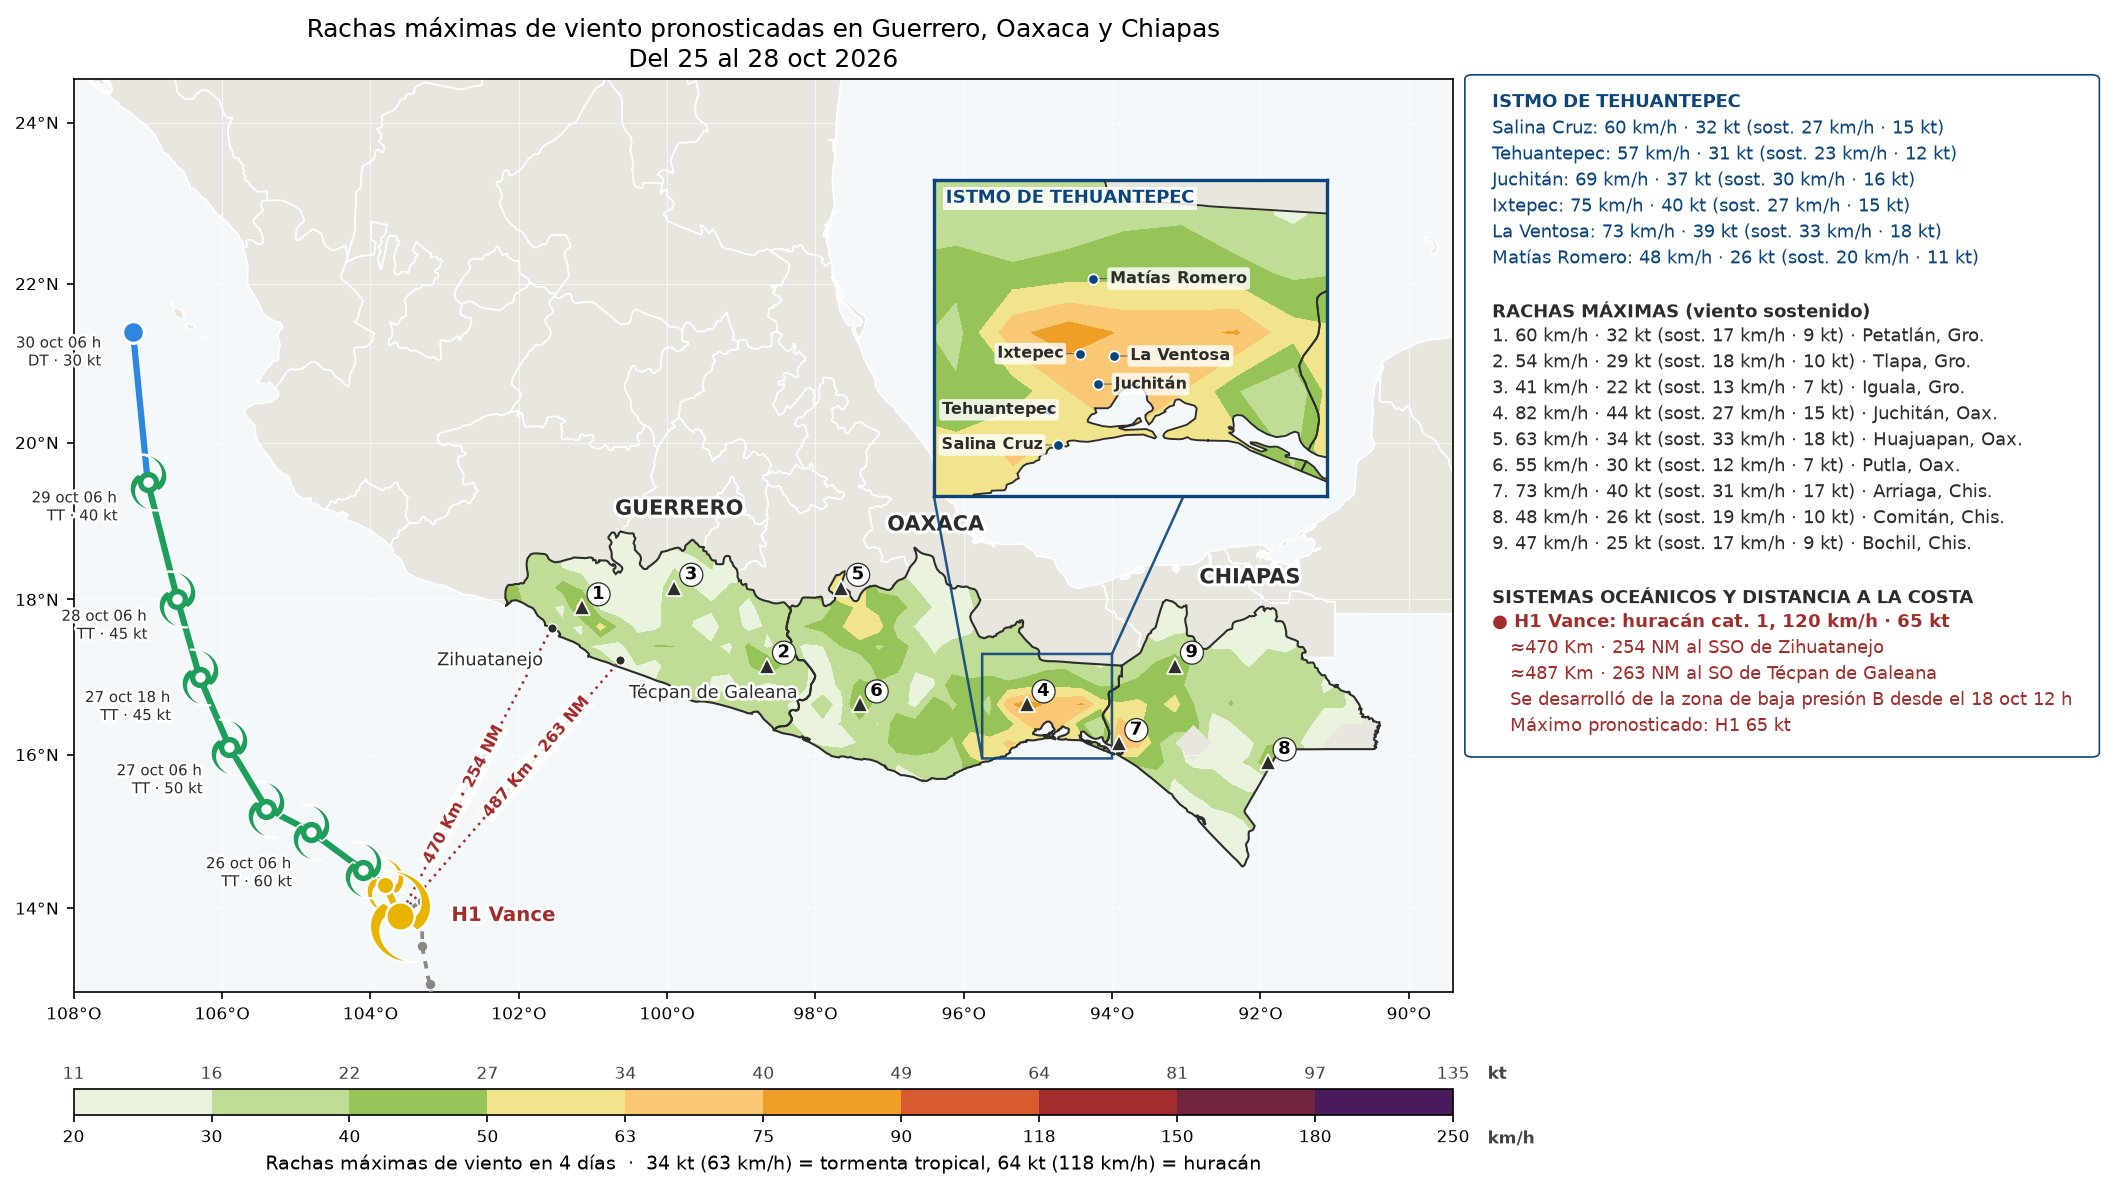
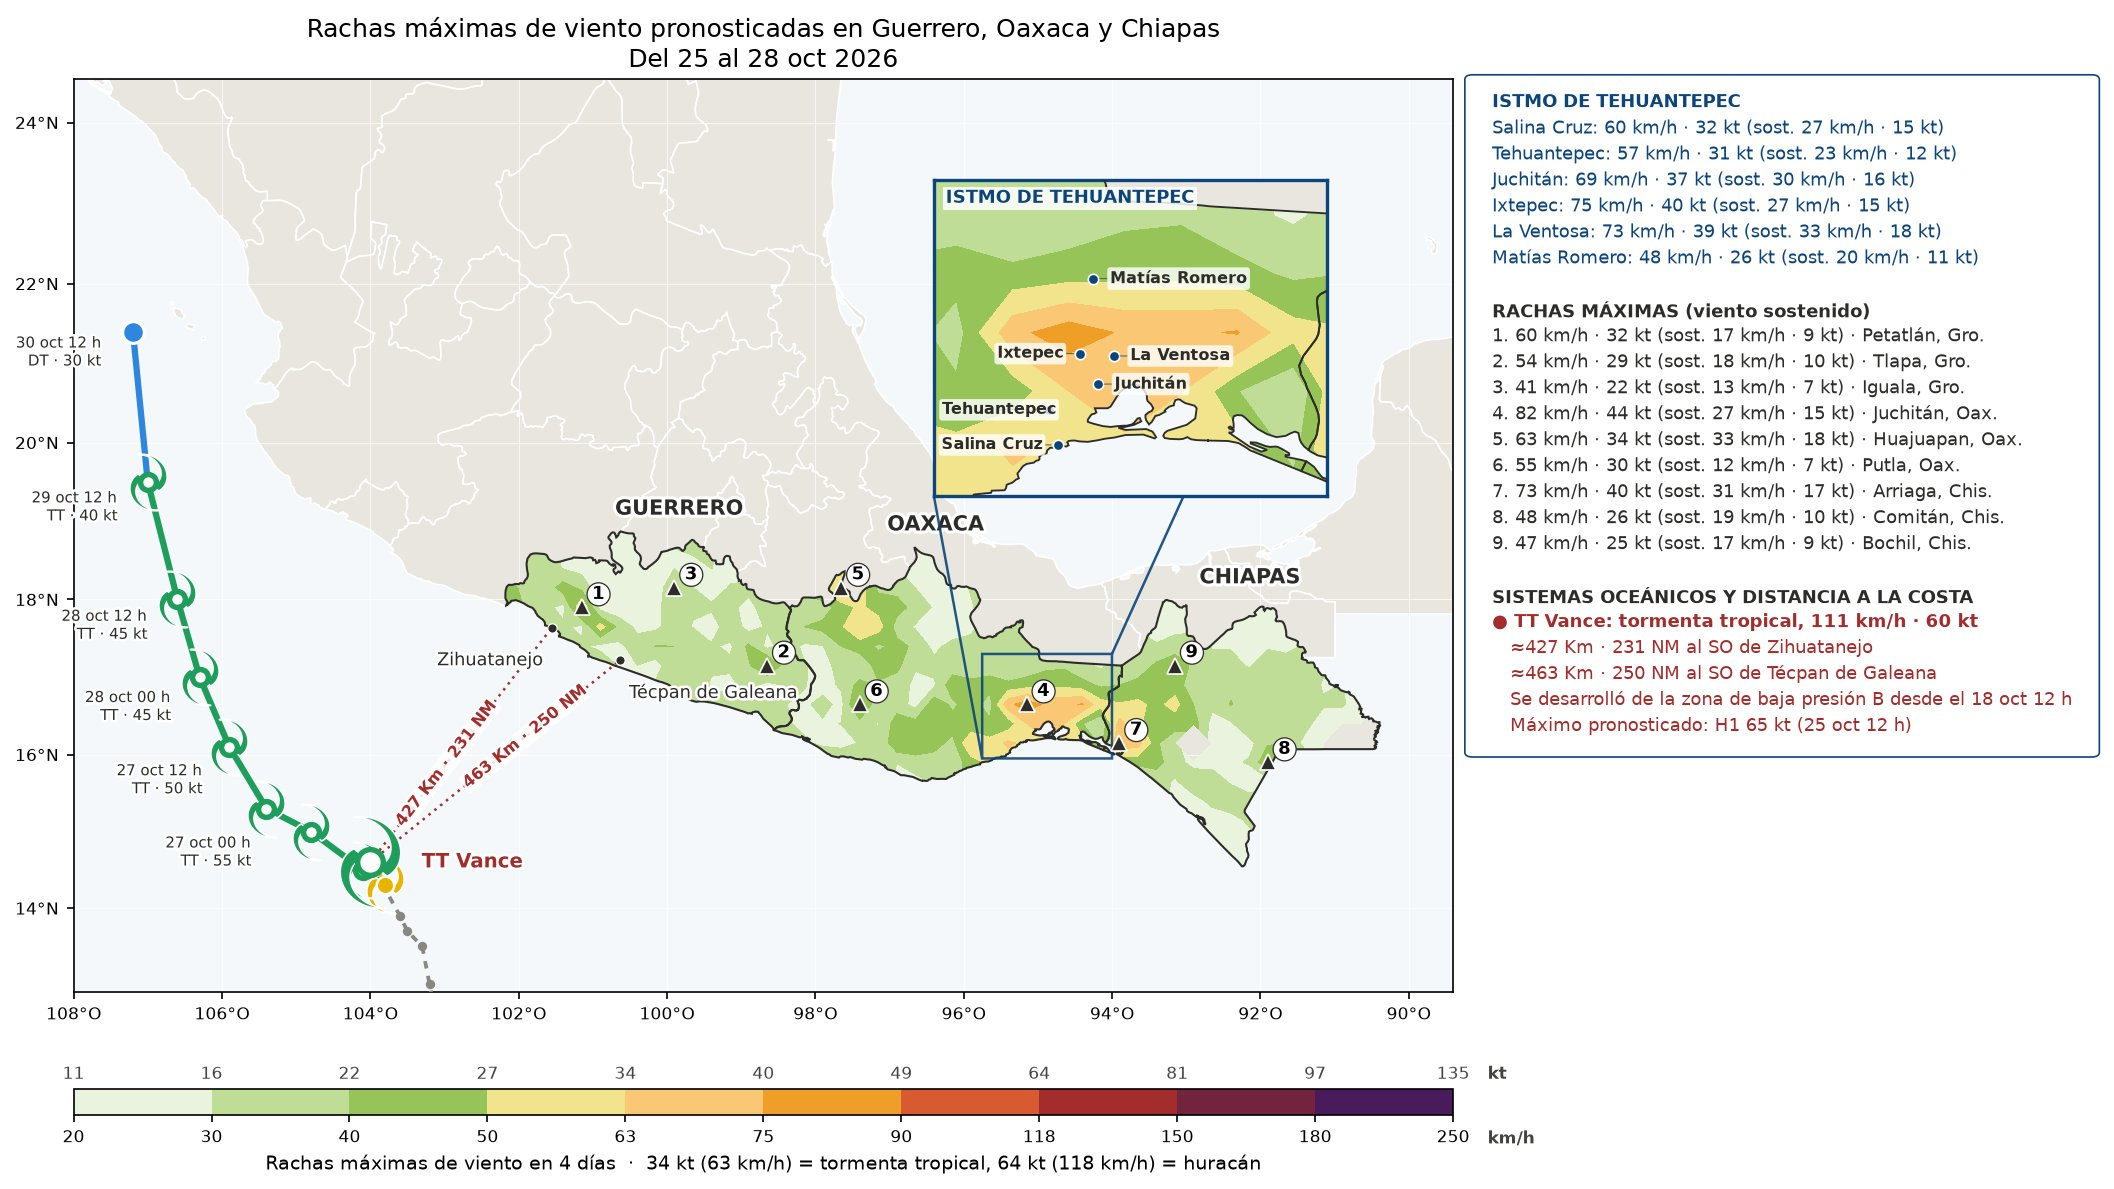
Monitor 25/10 14:37 (mapas nuevos)

Changed region(s): [[0.0937, 0.5601, 0.281, 0.8091], [0.7181, 0.4979, 0.9366, 0.5601], [0.843, 0.5913, 0.9054, 0.6224]]

diff --git a/index.html b/index.html
@@ -62,7 +62,7 @@ pre{overflow-x:auto;font-size:.75rem;background:var(--bg);padding:10px;border-ra
 <section class="t" id="sec_log"><details><summary>Registro (últimas líneas)</summary><pre id="log"></pre></details></section>
 </main>
 <div id="zoom"><img alt=""></div>
-<script id="datos" type="application/json">{"generado": "2026-10-25T14:27:05.155431", "ultima_revision": "2026-10-25T14:27:05.116237", "decision": "sin cambios", "ultima_imagen": "2026-10-25T09:10:07.924667", "motivo_imagen": "cambios acumulados en 3 h: nhc, modelo", "pendientes": [], "intervalo_h": 3, "resumen": {"ciclones": {"ep222026": {"nombre": "Vance", "kt": 65, "cat": "H1"}}, "zonas": []}, "historial": [{"fecha": "2026-10-23T03:07:13.407994", "motivo": "CAMBIO SIGNIFICATIVO: Vance cambió de categoría TT → H1"}, {"fecha": "2026-10-23T06:24:52.066568", "motivo": "cambios acumulados en 3 h: modelo"}, {"fecha": "2026-10-23T09:30:17.759506", "motivo": "cambios acumulados en 3 h: nhc, modelo"}, {"fecha": "2026-10-23T14:47:14.365047", "motivo": "CAMBIO SIGNIFICATIVO: Vance cambió de categoría H1 → H2"}, {"fecha": "2026-10-23T18:00:44.711869", "motivo": "cambios acumulados en 3 h: modelo"}, {"fecha": "2026-10-23T21:10:22.420281", "motivo": "cambios acumulados en 3 h: nhc, modelo"}, {"fecha": "2026-10-24T02:47:13.566844", "motivo": "cambios acumulados en 3 h: nhc"}, {"fecha": "2026-10-24T06:01:48.883304", "motivo": "cambios acumulados en 3 h: modelo"}, {"fecha": "2026-10-24T09:10:07.143899", "motivo": "cambios acumulados en 3 h: nhc, modelo"}, {"fecha": "2026-10-24T14:47:15.381799", "motivo": "CAMBIO SIGNIFICATIVO: Vance cambió de categoría H2 → H1"}, {"fecha": "2026-10-24T18:00:35.822546", "motivo": "cambios acumulados en 3 h: modelo"}, {"fecha": "2026-10-24T21:10:14.966105", "motivo": "cambios acumulados en 3 h: nhc, modelo"}, {"fecha": "2026-10-25T02:47:14.208706", "motivo": "cambios acumulados en 3 h: nhc"}, {"fecha": "2026-10-25T06:00:22.403851", "motivo": "cambios acumulados en 3 h: modelo"}, {"fecha": "2026-10-25T09:10:07.924667", "motivo": "cambios acumulados en 3 h: nhc, modelo"}], "imagenes": {"lluvia": {"src": "lluvia.jpg?v=202610250910", "fecha": "2026-10-25T09:10:01.476418"}, "viento": {"src": "viento.jpg?v=202610250910", "fecha": "2026-10-25T09:10:05.936793"}}, "log": [], "umbral_av": 50, "umbral_mal": 110}</script>
+<script id="datos" type="application/json">{"generado": "2026-10-25T14:37:16.649458", "ultima_revision": "2026-10-25T14:37:16.611762", "decision": "imágenes generadas", "ultima_imagen": "2026-10-25T14:37:16.611762", "motivo_imagen": "CAMBIO SIGNIFICATIVO: Vance salió de la jurisdicción o se disipó", "pendientes": [], "intervalo_h": 3, "resumen": {"ciclones": {}, "zonas": []}, "historial": [{"fecha": "2026-10-23T06:24:52.066568", "motivo": "cambios acumulados en 3 h: modelo"}, {"fecha": "2026-10-23T09:30:17.759506", "motivo": "cambios acumulados en 3 h: nhc, modelo"}, {"fecha": "2026-10-23T14:47:14.365047", "motivo": "CAMBIO SIGNIFICATIVO: Vance cambió de categoría H1 → H2"}, {"fecha": "2026-10-23T18:00:44.711869", "motivo": "cambios acumulados en 3 h: modelo"}, {"fecha": "2026-10-23T21:10:22.420281", "motivo": "cambios acumulados en 3 h: nhc, modelo"}, {"fecha": "2026-10-24T02:47:13.566844", "motivo": "cambios acumulados en 3 h: nhc"}, {"fecha": "2026-10-24T06:01:48.883304", "motivo": "cambios acumulados en 3 h: modelo"}, {"fecha": "2026-10-24T09:10:07.143899", "motivo": "cambios acumulados en 3 h: nhc, modelo"}, {"fecha": "2026-10-24T14:47:15.381799", "motivo": "CAMBIO SIGNIFICATIVO: Vance cambió de categoría H2 → H1"}, {"fecha": "2026-10-24T18:00:35.822546", "motivo": "cambios acumulados en 3 h: modelo"}, {"fecha": "2026-10-24T21:10:14.966105", "motivo": "cambios acumulados en 3 h: nhc, modelo"}, {"fecha": "2026-10-25T02:47:14.208706", "motivo": "cambios acumulados en 3 h: nhc"}, {"fecha": "2026-10-25T06:00:22.403851", "motivo": "cambios acumulados en 3 h: modelo"}, {"fecha": "2026-10-25T09:10:07.924667", "motivo": "cambios acumulados en 3 h: nhc, modelo"}, {"fecha": "2026-10-25T14:37:16.611762", "motivo": "CAMBIO SIGNIFICATIVO: Vance salió de la jurisdicción o se disipó"}], "imagenes": {"lluvia": {"src": "lluvia.jpg?v=202610251437", "fecha": "2026-10-25T14:37:10.112223"}, "viento": {"src": "viento.jpg?v=202610251437", "fecha": "2026-10-25T14:37:14.789783"}}, "log": [], "umbral_av": 50, "umbral_mal": 110}</script>
 <script>
 const D = JSON.parse(document.getElementById("datos").textContent);
 const $ = id => document.getElementById(id);
